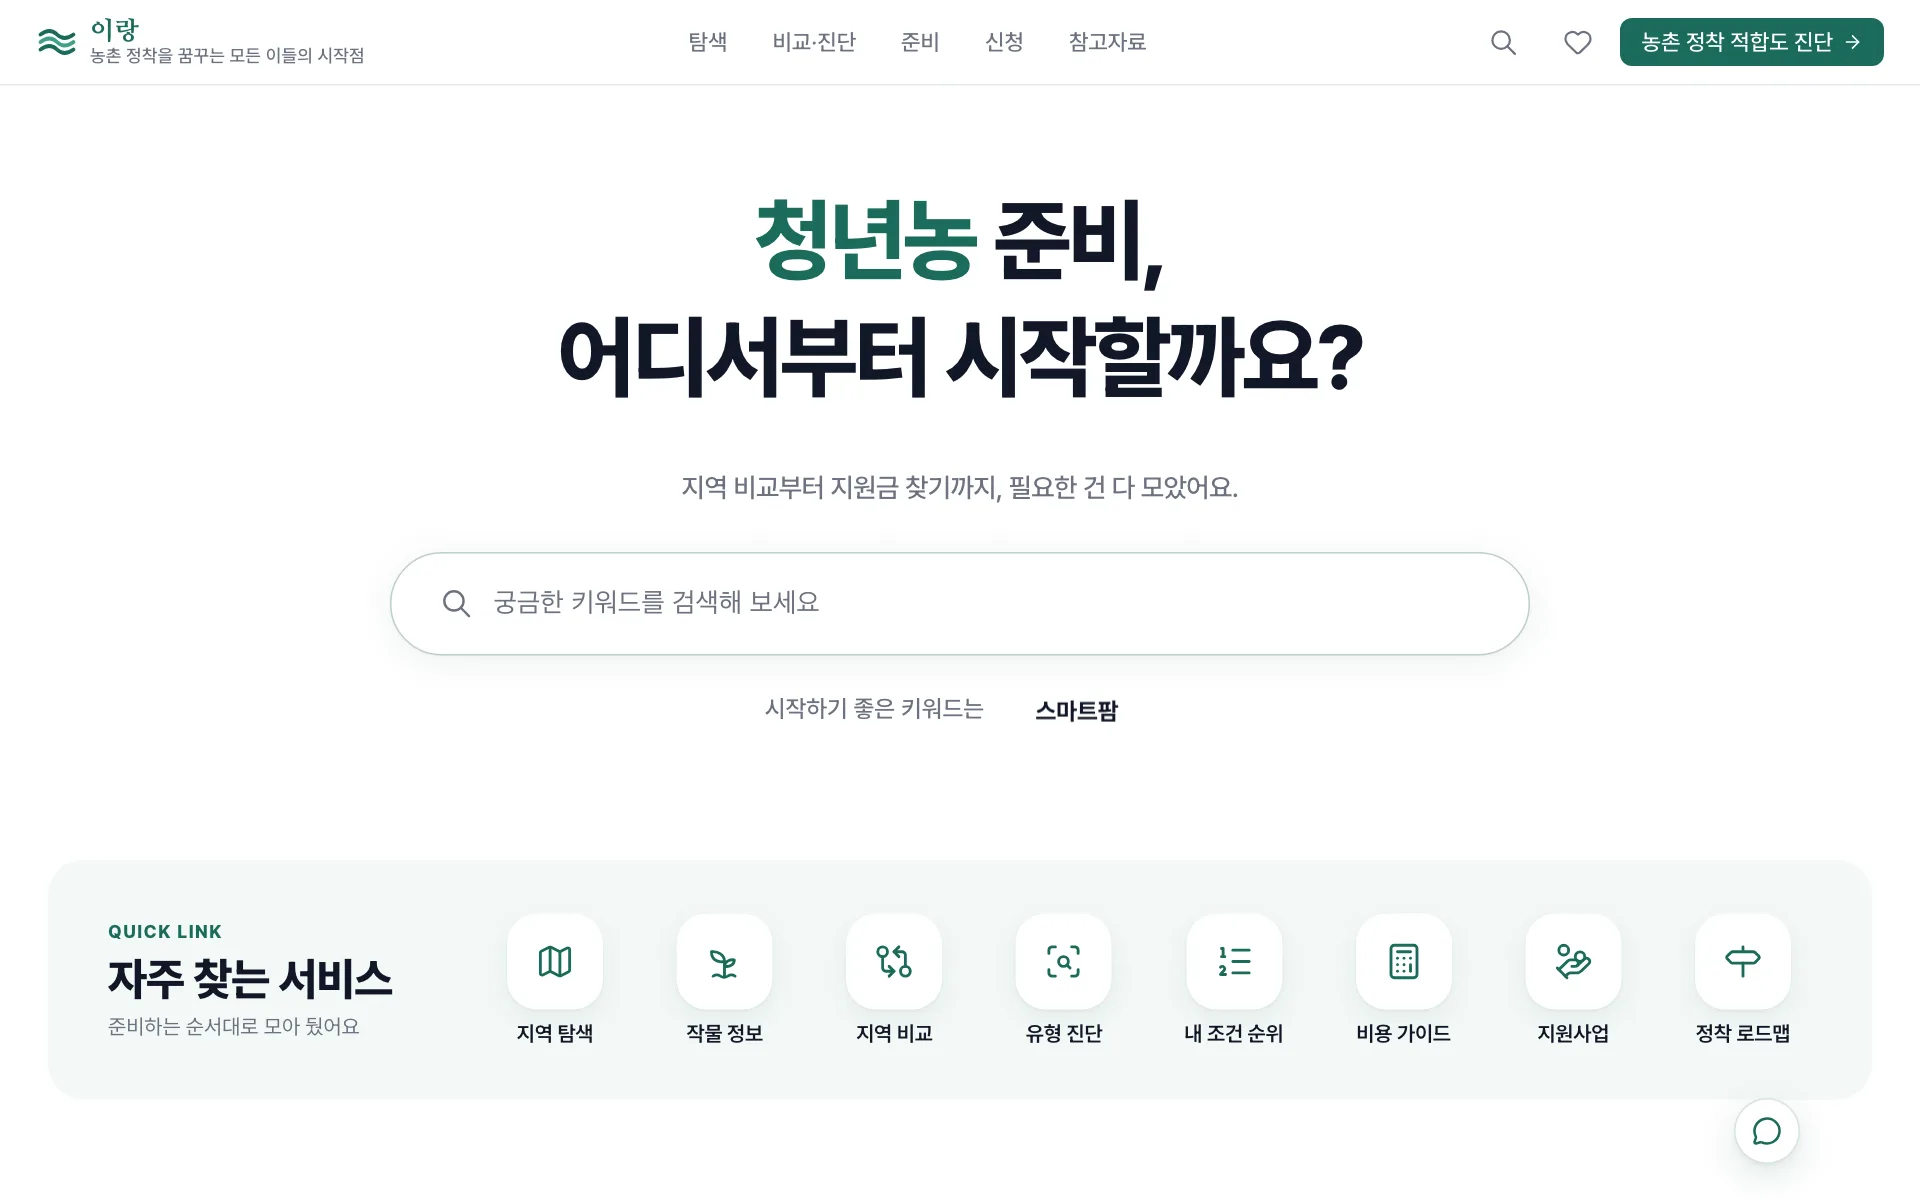
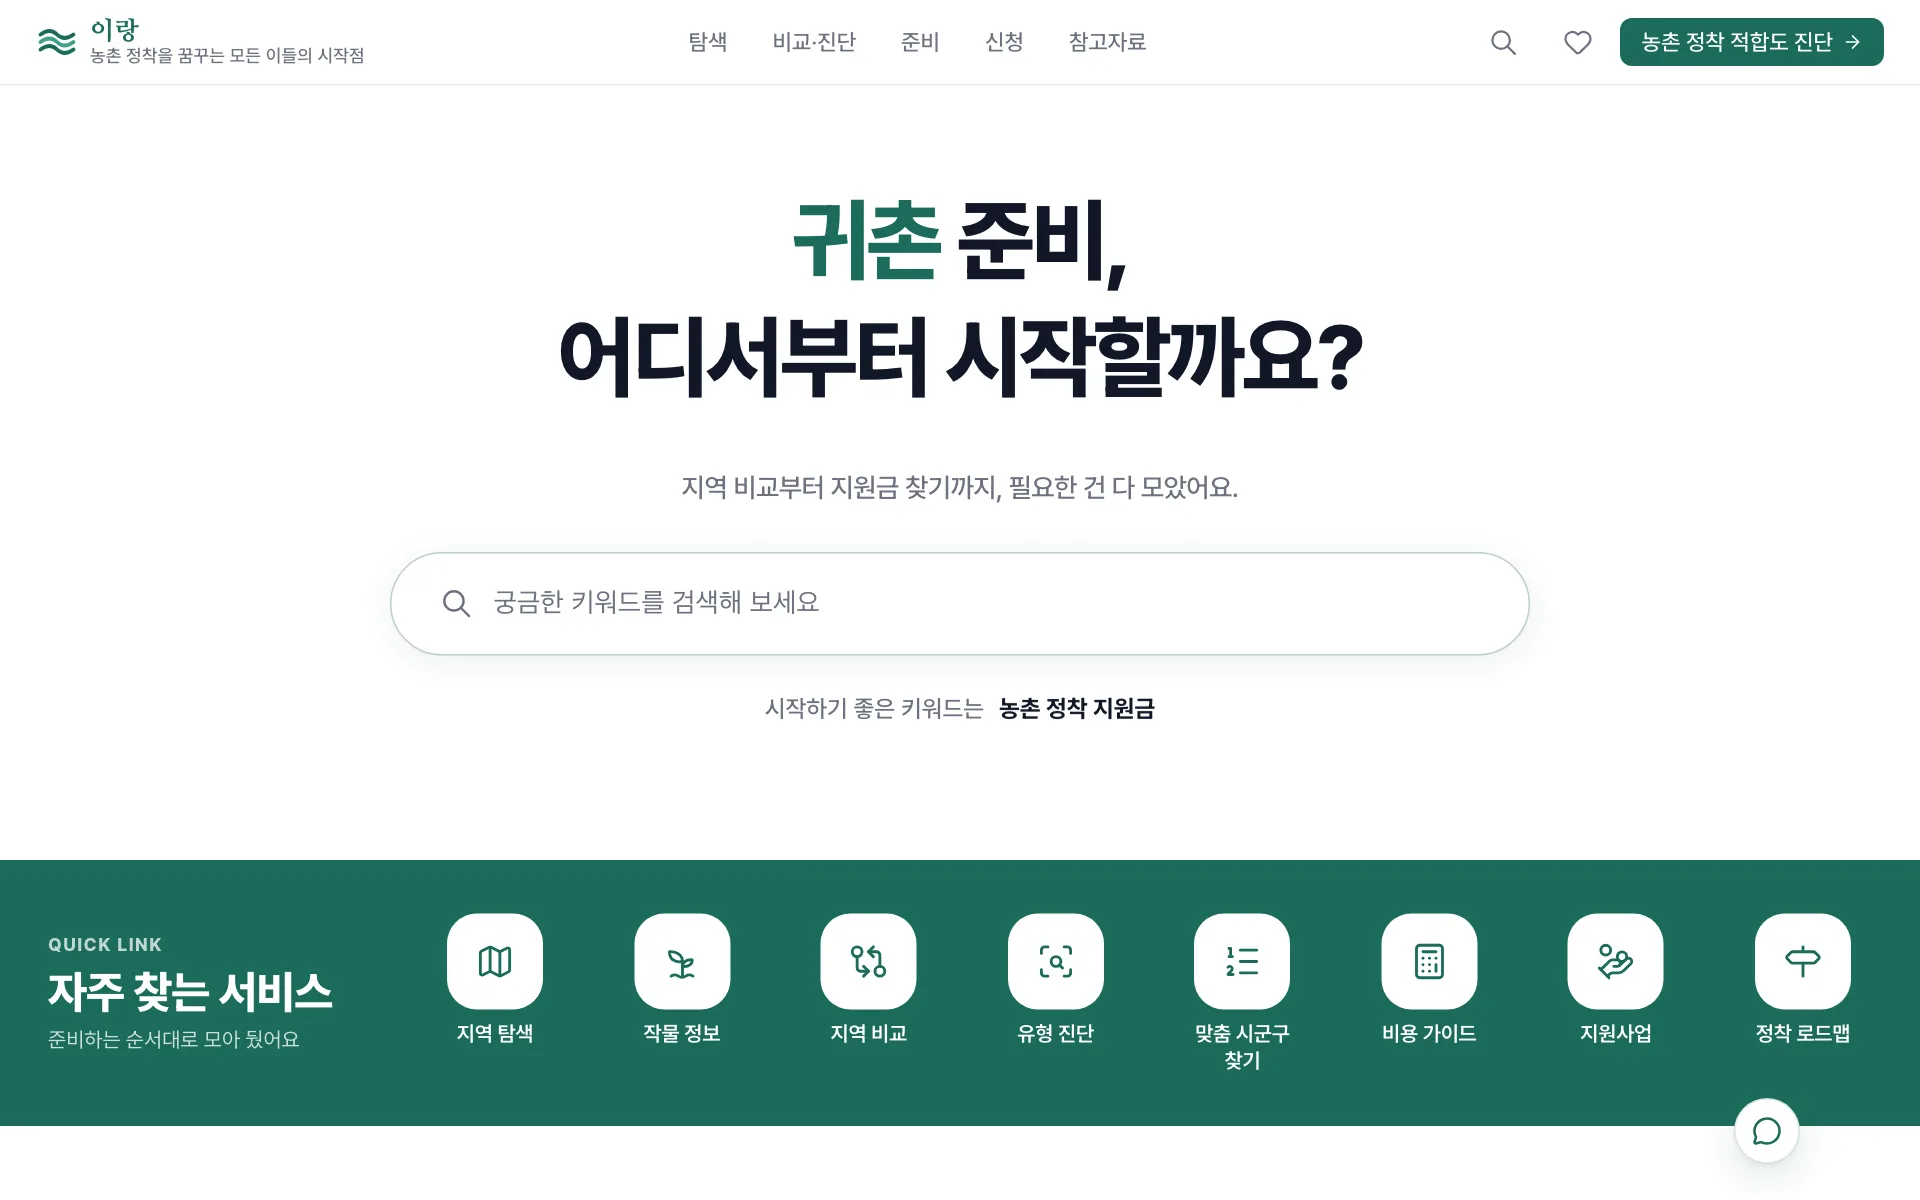
style(landing): 자주 찾는 서비스 → primary 풀블리드 띠 (박스 → 화면 폭)
회장 9/7 결재: 배경 primary + 박스 대신 뷰포트 폭을 꽉 채우는 띠. page.module.css .fullWidth 기법 복제,
radius 0, 안쪽 .inner(max-width 1280-64, 데스크탑 220px/1fr), 텍스트 흰색·타일 그림자 제거·hover 딥그린 반전.
5폭 실측: 섹션 폭 == 뷰포트, overflowX 0, 제목 좌측 = 페이지 컨테이너 좌측. 업데이트 소식 이후 프레임 갱신.

Changed region(s): [[0.0, 0.7092, 1.0, 0.9558], [0.375, 0.1542, 0.625, 0.2467], [0.5312, 0.5858, 0.5938, 0.6167]]

diff --git a/src/components/landing/quick-link-section.module.css b/src/components/landing/quick-link-section.module.css
@@ -1,14 +1,25 @@
 /* QuickLinkSection — 기본(모바일) → @media 오버라이드 (체크리스트 G). 다크모드 없음, 장식 요소 없음 */
 
+/* 풀블리드 primary 띠 — .page(max-width 1280, 좌우 padding) 밖으로 뷰포트 폭까지 확장.
+   page.module.css .fullWidth 와 같은 기법(html overflow-x: clip 이 스크롤바 폭 초과분을 가림) */
 .section {
   display: flex;
   flex-direction: column;
   gap: 14px;
-  margin-top: -24px; /* .page gap 64 → 히어로와 40 (9/7 회장 "히어로 너무 넓다") */
-  padding: 22px 18px 18px;
-  border-radius: 24px;
-  background: color-mix(in srgb, var(--primary, #1b6b5a) 5%, #fff);
+  margin: -24px calc(-50vw + 50%) 0; /* 위 -24: .page gap 64 → 히어로와 40 */
+  padding: 26px calc(50vw - 50%) 24px;
+  background: var(--primary, #1b6b5a);
+  color: #fff;
   min-width: 0;
+}
+
+/* 안쪽 콘텐츠는 페이지 컨테이너와 같은 좌우 정렬 */
+.intro,
+.track {
+  width: 100%;
+  max-width: calc(1280px - 64px);
+  margin-left: auto;
+  margin-right: auto;
 }
 
 .intro {
@@ -22,7 +33,7 @@
   font-size: var(--fs-overline, 0.6875rem);
   font-weight: 800;
   letter-spacing: 0.08em;
-  color: var(--primary, #1b6b5a);
+  color: rgba(255, 255, 255, 0.72);
 }
 
 .title {
@@ -30,13 +41,13 @@
   font-size: var(--fs-h3, 1.25rem);
   font-weight: 800;
   letter-spacing: -0.02em;
-  color: var(--foreground, #111827);
+  color: #fff;
 }
 
 .desc {
   margin: 0;
   font-size: var(--fs-caption, 0.8125rem);
-  color: var(--muted-foreground, #6b7280);
+  color: rgba(255, 255, 255, 0.78);
 }
 
 /* 모바일: 4개 × 2줄 그리드 — 한 화면에 8개 전부 (9/7 회장 지시) */
@@ -62,13 +73,13 @@
   min-height: 44px;
   padding: 4px 2px;
   border-radius: 14px;
-  color: var(--foreground, #111827);
+  color: #fff;
   text-decoration: none;
   -webkit-tap-highlight-color: transparent;
 }
 
 .link:focus-visible {
-  outline: 2px solid var(--primary, #1b6b5a);
+  outline: 2px solid #fff;
   outline-offset: 2px;
 }
 
@@ -81,14 +92,10 @@
   border-radius: 18px;
   background: #fff;
   color: var(--primary, #1b6b5a);
-  box-shadow:
-    0 1px 2px rgba(27, 107, 90, 0.05),
-    0 6px 16px rgba(27, 107, 90, 0.08);
   transition:
     background 0.18s ease,
     color 0.18s ease,
-    transform 0.18s ease,
-    box-shadow 0.18s ease;
+    transform 0.18s ease;
 }
 
 .label {
@@ -102,10 +109,9 @@
 
 @media (hover: hover) {
   .link:hover .tile {
-    background: var(--primary, #1b6b5a);
+    background: var(--primary-dark, #0d2e27);
     color: #fff;
     transform: translateY(-2px);
-    box-shadow: 0 10px 22px rgba(27, 107, 90, 0.22);
   }
 }
 
@@ -117,7 +123,8 @@
 
 @media (min-width: 640px) {
   .section {
-    padding: 26px 24px 22px;
+    padding-top: 30px;
+    padding-bottom: 28px;
   }
 }
 
@@ -135,15 +142,28 @@
   }
 }
 
-/* 데스크탑: 좌 제목 블록 · 우 아이콘 행 */
+/* 데스크탑: 띠 안에서 좌 제목 블록 · 우 아이콘 행 (안쪽 그리드는 .inner 가 담당) */
 @media (min-width: 1024px) {
   .section {
+    margin-top: -64px; /* .page gap 120 → 히어로와 56 */
+    padding-top: 30px;
+    padding-bottom: 30px;
+  }
+
+  .inner {
     display: grid;
     grid-template-columns: 220px minmax(0, 1fr);
     align-items: center;
     gap: 32px;
-    margin-top: -64px; /* .page gap 120 → 히어로와 56 */
-    padding: 30px 40px;
+    width: 100%;
+    max-width: calc(1280px - 64px);
+    margin: 0 auto;
+  }
+
+  .intro,
+  .track {
+    max-width: none;
+    margin: 0;
   }
 
   .intro {

diff --git a/src/lib/data/updates.ts b/src/lib/data/updates.ts
@@ -100,7 +100,7 @@ export const UPDATES: UpdateItem[] = [
       before: "/updates/quick-link-before.webp",
       after: "/updates/quick-link-after.webp",
       frame: "desktop",
-      caption: "이전엔 검색창 아래로 키워드 띠가 흘렀고, 지금은 '자주 찾는 서비스' 묶음에 아이콘 여덟 개가 한 줄로 보여요",
+      caption: "이전엔 검색창 아래로 키워드 띠가 흘렀고, 지금은 초록 띠 '자주 찾는 서비스'에 아이콘 여덟 개가 한 줄로 보여요",
     },
   },
   {

diff --git a/src/components/landing/quick-link-section.tsx b/src/components/landing/quick-link-section.tsx
@@ -44,6 +44,7 @@ export const QUICK_LINK_ITEMS: readonly QuickItem[] = [
 export function QuickLinkSection() {
   return (
     <section className={s.section} aria-labelledby="quick-link-title">
+      <div className={s.inner}>
       <div className={s.intro}>
         <p className={s.eyebrow}>QUICK LINK</p>
         <h2 id="quick-link-title" className={s.title}>
@@ -69,6 +70,7 @@ export function QuickLinkSection() {
           </li>
         ))}
       </ul>
+      </div>
     </section>
   );
 }

diff --git a/CLAUDE.md b/CLAUDE.md
@@ -104,6 +104,7 @@
 | 2026-09-07 | **히어로 다이어트 + "자주 찾는 서비스" 별도 섹션** — 회장 3연속 지시: ① 자동 흐름 키워드 마퀴 2줄 제거(히어로 375 577→477) ② "히어로가 너무 넓다·배너↔타이틀 간격 축소" → 히어로 padding-top 48/56/64/72 → 8/20/24/24, `UpdatesBanner` 음수 마진 -40 → 모바일 -52·데스크탑 -72(`.page` gap 64/120 보정), 하단 64→40. 데스크탑 배너→h1 152→72px ③ 히어로 안 아이콘 행 → 타 포털 QUICK LINK 참고로 **히어로 밖 `QuickLinkSection`**(틴트 패널, 좌 제목 블록 "자주 찾는 서비스" + 우 아이콘 8, 1024+ 그리드 220px/1fr) ④ 모바일은 가로 스크롤 대신 **4×2 그리드로 8개 한 화면**. GA `quick_link:*`(hero_quick 폐기), ScrollReveal `trackId="quick_link"`. 1024px에서 8번째 아이콘 잘림(트랙 620px) → item 72px/gap 4, 1280+ 92px | src/components/landing/quick-link-section.*, src/app/page.tsx·page.module.css, components/landing/updates-banner.module.css | 실측 스크립트에 `gapBannerToH1`·`heroToQuick`·`rows/visible` 항목 추가 — **"넓다"는 어느 간격인지 px로 쪼개서 본다**(배너→히어로는 `.page` gap과 배너 음수 마진의 합성이라 한 곳만 고치면 절반만 줄어듦). 히어로 하루 3회 수정은 회장 시각 피드백 루프가 빠르다는 뜻 — 매 라운드 375·1280 캡처를 보고에 첨부 |
 | 2026-09-07 | **모바일 검색창 탭 판정(`useTapGesture`) + 스크롤 안내 화살표 제거** — ① 히어로·/search 모바일 검색창이 `onPointerDown`에서 전역 오버레이를 열어 **검색창을 잡고 스크롤을 시작만 해도 오버레이가 뜨던** 버그(회장 라이브). `src/lib/hooks/use-tap-gesture.ts`: pointerdown 좌표·scrollY 기록 → pointerup에서 이동 < 10px·스크롤 0일 때만 탭, pointercancel은 무시, Enter/Space 키보드 지원 + `role=button`·`aria-label`. iPhone 13 프로필 실측: 60px 드래그·페이지 스크롤 동반 → 오버레이 0, 탭 → 1 ② 히어로가 324px로 짧아져 첫 화면에 다음 섹션이 보이므로 `ScrollIndicator` 삭제(회장 "화살표 간격 이상"), 모바일 hero padding-bottom 40→28 | src/lib/hooks/use-tap-gesture.ts, components/search/{hero-search,search-page-search-bar}.tsx, src/app/page.tsx·page.module.css | **터치 UI는 "누름"이 아니라 "눌렀다 뗌"에 반응해야 한다** — pointerdown/touchstart에서 상태를 바꾸는 트리거는 스크롤 제스처와 충돌한다. 인터뷰 캐러셀 `useDragScroll`처럼 이동 판정을 분리. Playwright는 `[role=dialog]` 카운트에 Next dev 오버레이(`nextjs-portal`)가 섞일 수 있어 `aria-label`로 식별 |
 | 2026-09-07 | **서비스 명칭 통일 "맞춤 시군구 찾기"** — 같은 서비스(`/regions/ranking`)가 자주 찾는 서비스 "내 조건 순위" / GNB "시군구 순위" / 페이지 제목 "시군구 점수 비교" 세 이름이었음(회장 "명칭이 애매"). 타일·GNB(desc "내 조건에 맞는 시·군·구 순위")·페이지 title·h1·breadcrumb·methodology 복귀 링크·업데이트 소식까지 한 이름으로. 타일 라벨은 2줄이라 `.label { min-height: 2줄 }`로 행 높이 통일 | src/components/landing/quick-link-section.*, src/lib/data/navigation.ts, src/app/regions/ranking/**, src/lib/data/updates.ts | **한 서비스는 한 이름** — 진입점(타일·GNB)과 도착 페이지 제목이 다르면 사용자는 다른 곳에 왔다고 느낀다. 명칭 변경 시 `grep`으로 breadcrumb·복귀 링크·업데이트 소식까지 전수 |
+| 2026-09-07 | **자주 찾는 서비스 → primary 풀블리드 띠** — 회장 "배경 primary 주면 아래(인터뷰 딥그린)와 겹치려나?" → dev에서 CSS 주입 시안 3장(primary 375/1280·현재 375)을 캡처해 SendUserFile로 보내고 판단: 같은 계열 한 단계 어두워지는 흐름이라 충돌 없음, 흰 타일 대비 ↑. 결재 "primary + 박스 말고 화면 꽉 채워 띠처럼" → `page.module.css .fullWidth` 기법(`margin: 0 calc(-50vw + 50%); padding: 0 calc(50vw - 50%)`)을 섹션 모듈에 복제(cross-file composes 회피), radius 0, 안쪽 `.inner`(max-width 1280-64, 데스크탑 220px/1fr 그리드), 텍스트 흰색·타일 그림자 제거·hover 딥그린 반전. 5폭 실측 secW == vw, overflowX 0, 제목 좌측 = 페이지 컨테이너 좌측 | src/components/landing/quick-link-section.* , src/lib/data/updates.ts | **색·배경 판단은 시안을 캡처해 회장에게 이미지로 보낸다** — 말로 설명하는 것보다 3장 비교가 결재를 한 번에 끝냈다. 풀블리드는 `html { overflow-x: clip }`이 스크롤바 폭 초과분을 가려 주는 전제 위에서만 안전 |
 
 ---
 
